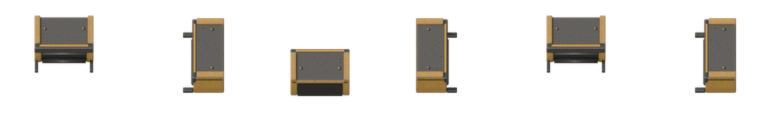
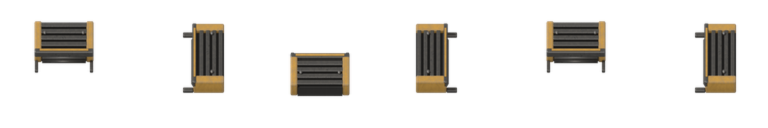
wip: round 4 block graphics: calibrated tier colours, wear, animated machinery, belt-guard ports, 3/4 front faces

diff --git a/tools/render/preview_gif.py b/tools/render/preview_gif.py
@@ -1,0 +1,24 @@
+"""Review aid: an animated GIF and a frame strip per tier of a lone block with its machinery loop,
+from the raw renders (tools/render/out/raw). Usage: python tools/render/preview_gif.py [out_dir]"""
+import os
+import sys
+from PIL import Image
+raw = os.path.join(os.path.dirname(os.path.abspath(__file__)), 'out', 'raw')
+out = sys.argv[1] if len(sys.argv) > 1 else os.path.join(os.path.dirname(os.path.abspath(__file__)), 'out')
+for tier in ['basic', 'fast', 'express', 'turbo']:
+    base = Image.open(os.path.join(raw, r'block-%s-000.png' % tier)).convert('RGBA')
+    sh = Image.open(os.path.join(raw, r'block-shadow.png')).convert('RGBA')
+    frames = []
+    for f in range(16):
+        bg = Image.new('RGBA', base.size, (74, 72, 68, 255))
+        a = sh.getchannel('A').point(lambda v: int(v * 0.6))
+        dark = Image.new('RGBA', base.size, (0, 0, 0, 255)); dark.putalpha(a)
+        bg.alpha_composite(dark); bg.alpha_composite(base)
+        bg.alpha_composite(Image.open(os.path.join(raw, r'anim-%s-%02d.png' % (tier, f))).convert('RGBA'))
+        frames.append(bg.crop((48, 0, 336, 330)).resize((216, 248), Image.LANCZOS).convert('P', palette=Image.ADAPTIVE))
+    frames[0].save(os.path.join(out, r'anim-%s.gif' % tier), save_all=True, append_images=frames[1:], duration=67, loop=0)
+    strip = Image.new('RGBA', (216 * 8, 248))
+    for i in range(8):
+        strip.paste(frames[i * 2].convert('RGBA'), (i * 216, 0))
+    strip.save(os.path.join(out, r'anim-strip-%s.png' % tier))
+print('ok')
